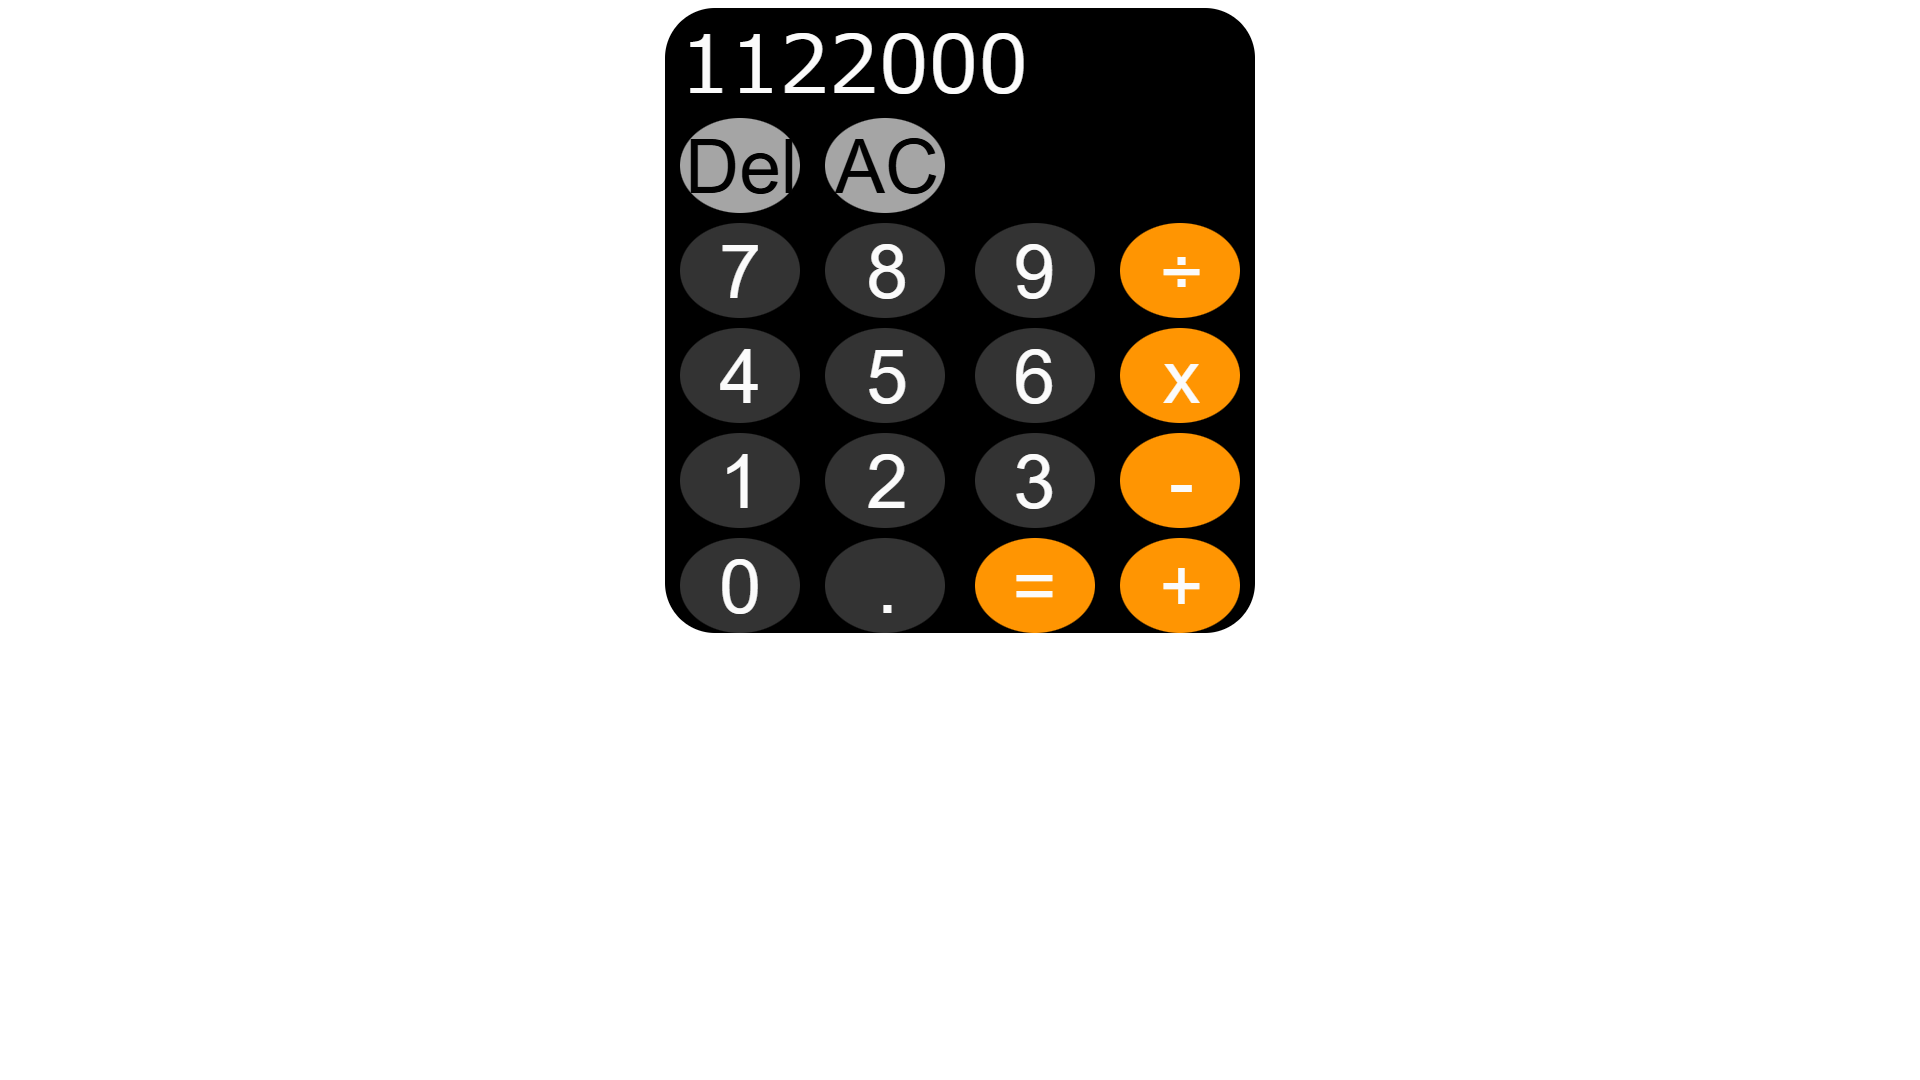
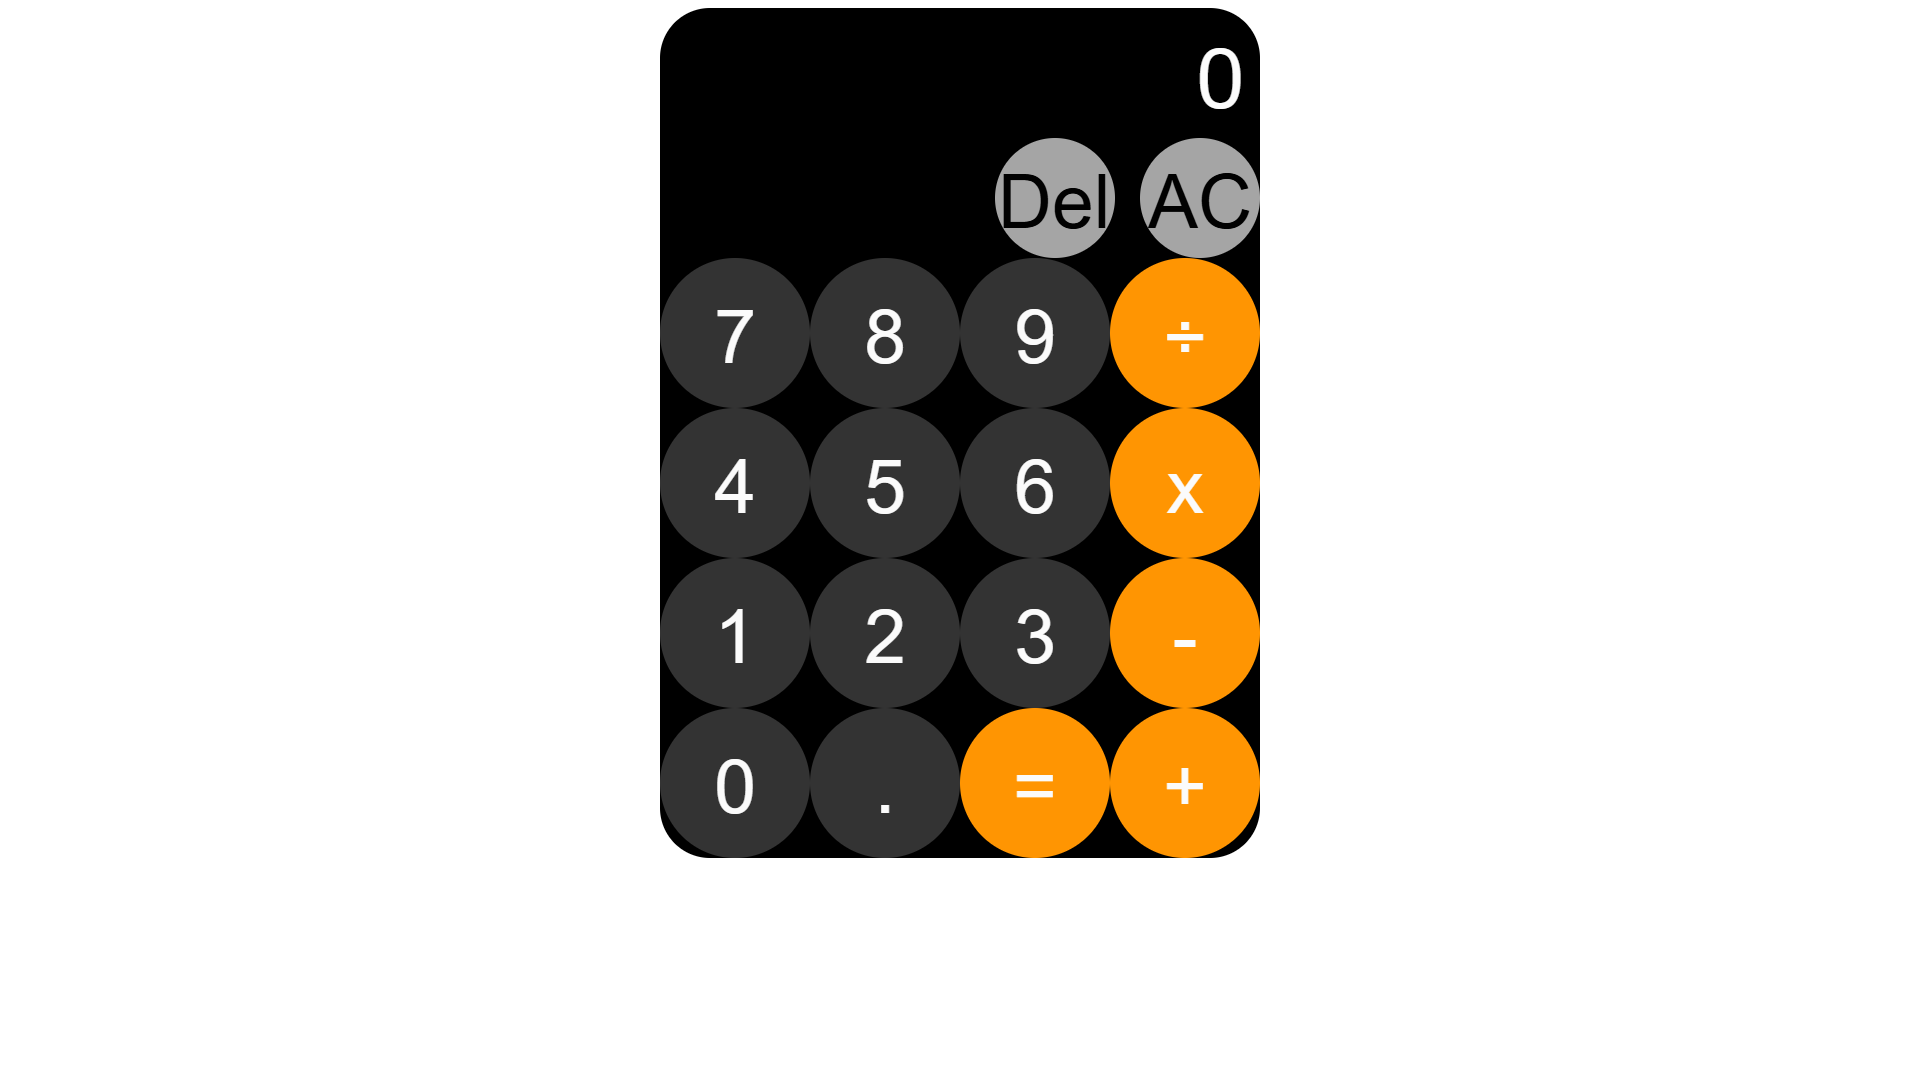
Update demo.PNG

Changed region(s): [[0.3438, 0.0306, 0.6562, 0.7944]]

diff --git a/index.html b/index.html
@@ -15,22 +15,24 @@
           <div class="func">
             <button class="fn">Del</button> <button class="fn">AC</button>
           </div>
-          <button class="num">7</button>
-          <button class="num">8</button>
-          <button class="num">9</button>
-          <button class="op">÷</button>
-          <button class="num">4</button>
-          <button class="num">5</button>
-          <button class="num">6</button>
-          <button class="op">x</button>
-          <button class="num">1</button>
-          <button class="num">2</button>
-          <button class="num">3</button>
-          <button class="op">-</button>
-          <button class="num">0</button>
-          <button class="num">.</button>
-          <button class="op">=</button>
-          <button class="op">+</button>
+          <div class="nums">
+            <button class="num">7</button>
+            <button class="num">8</button>
+            <button class="num">9</button>
+            <button class="op">÷</button>
+            <button class="num">4</button>
+            <button class="num">5</button>
+            <button class="num">6</button>
+            <button class="op">x</button>
+            <button class="num">1</button>
+            <button class="num">2</button>
+            <button class="num">3</button>
+            <button class="op">-</button>
+            <button class="num">0</button>
+            <button class="num">.</button>
+            <button class="op">=</button>
+            <button class="op">+</button>
+          </div>
         </div>
       </div>
     </div>
